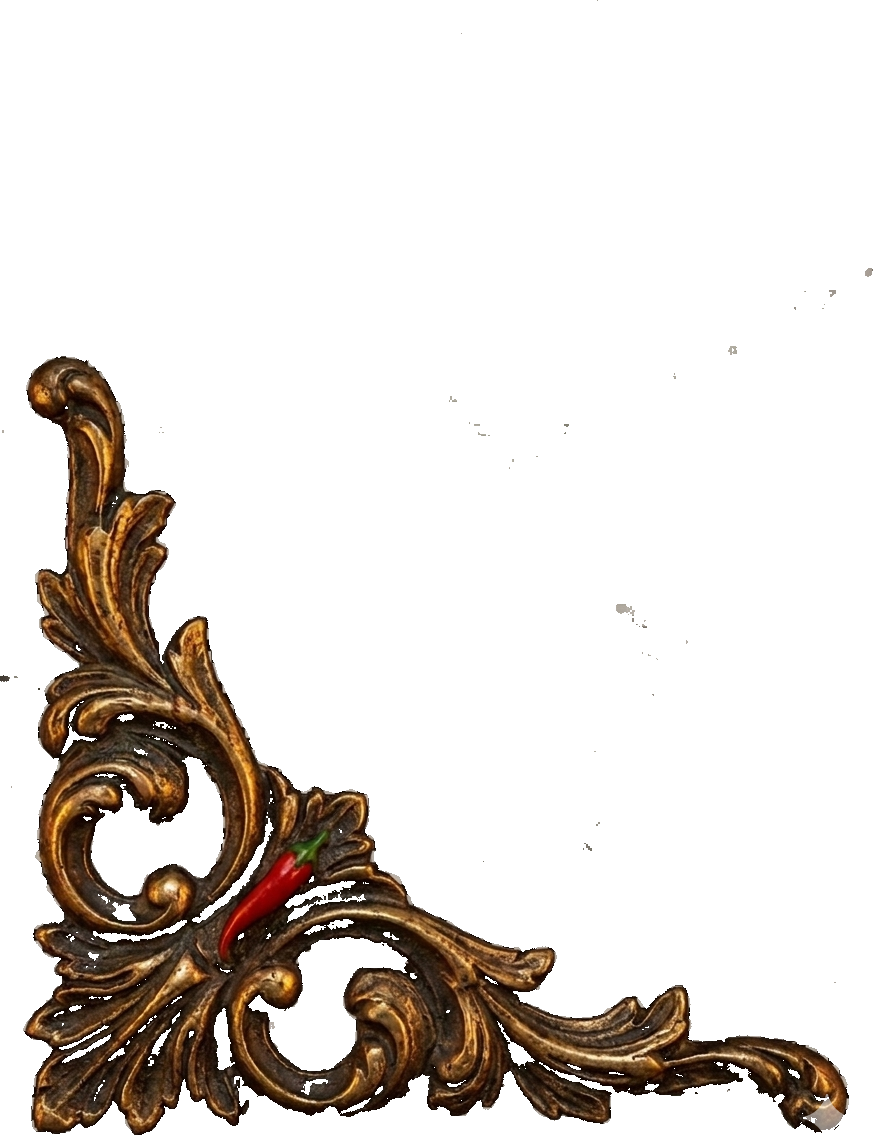
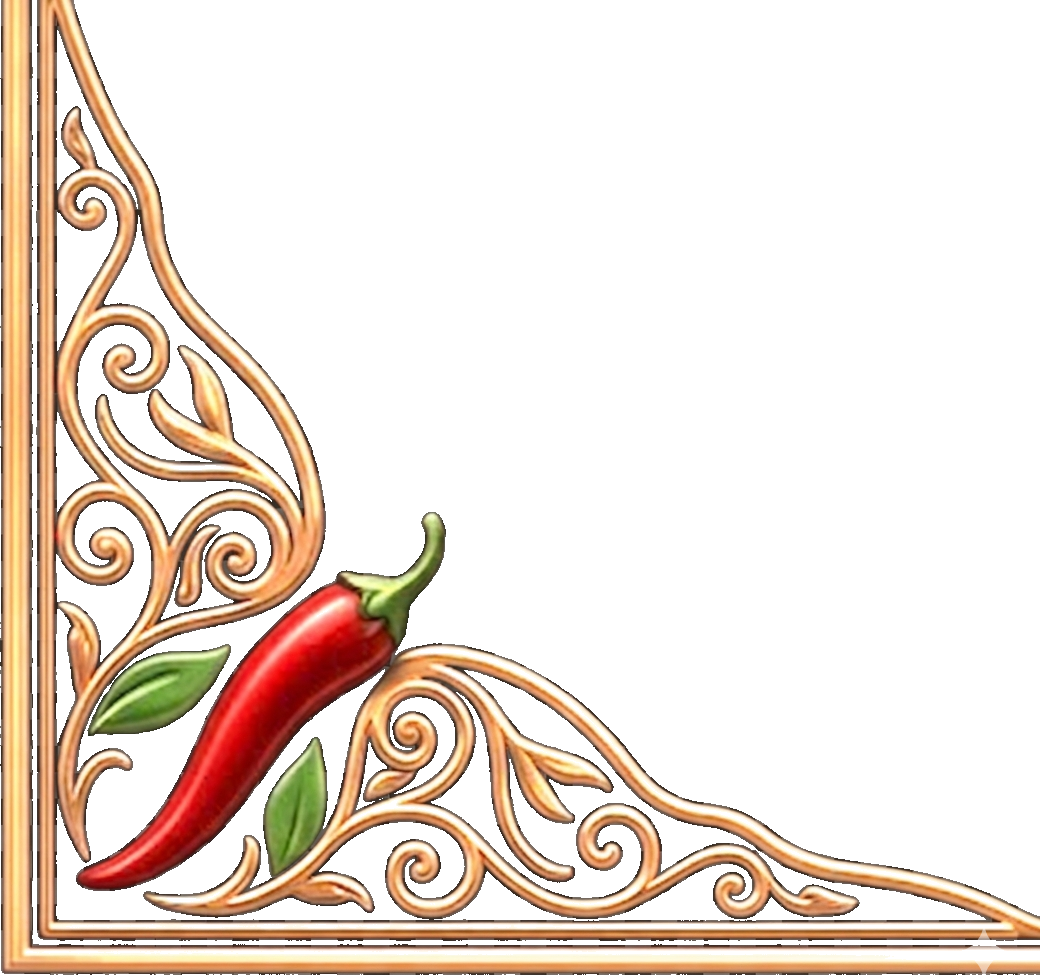
feat(ui): corner-v2 ornament on all four corners + refreshed asset
- Replace top SVG CornerBrackets with corner-v2 on MessageUsHub + catering
  banner; all four corners now use the ornate bronze ornament
- styles.css: directional .corner-art-tl/tr/bl/br (vertical flip for top
  corners so the L-piece faces inward); width 150px / md 190px
- Reprocess updated public/Files source (1060x1008, checkerboard baked
  opaque) -> stripped + cropped to 1040x975 transparent PNG
- Drop now-unused CornerBracket imports

diff --git a/src/routes/index.tsx b/src/routes/index.tsx
@@ -4,7 +4,7 @@ import { Photo } from "@/components/Photo";
 import { BaybayinWatermark } from "@/components/BaybayinWatermark";
 import { SignatureCarousel } from "@/components/SignatureCarousel";
 import { MessageUsHub } from "@/components/MessageUsHub";
-import { ChiliDivider, CornerBracket } from "@/components/Ornaments";
+import { ChiliDivider } from "@/components/Ornaments";
 import { IMAGES } from "@/data/images";
 import { MENU } from "@/data/menu";
 import { useCart, formatPrice } from "@/context/CartContext";
@@ -226,10 +226,10 @@ function Home() {
       {/* CATERING BANNER */}
       <section className="relative mx-auto max-w-7xl px-4 md:px-8">
         <div className="reveal bronze-frame wood-surface relative grid overflow-hidden rounded-3xl text-brand-cream md:grid-cols-2">
-          <CornerBracket corner="tl" className="h-14 w-14 md:h-16 md:w-16" />
-          <CornerBracket corner="tr" className="h-14 w-14 md:h-16 md:w-16" />
-          <img src={IMAGES.ornamentCornerV2} alt="" aria-hidden="true" className="corner-art corner-art-left" />
-          <img src={IMAGES.ornamentCornerV2} alt="" aria-hidden="true" className="corner-art corner-art-right" />
+          <img src={IMAGES.ornamentCornerV2} alt="" aria-hidden="true" className="corner-art corner-art-tl" />
+          <img src={IMAGES.ornamentCornerV2} alt="" aria-hidden="true" className="corner-art corner-art-tr" />
+          <img src={IMAGES.ornamentCornerV2} alt="" aria-hidden="true" className="corner-art corner-art-bl" />
+          <img src={IMAGES.ornamentCornerV2} alt="" aria-hidden="true" className="corner-art corner-art-br" />
           <Photo
             src={IMAGES.teamEvent}
             alt="Bagnetchon catering at a Filipino fiesta"

diff --git a/src/components/MessageUsHub.tsx b/src/components/MessageUsHub.tsx
@@ -1,6 +1,5 @@
 import { useState } from "react";
 import { MessageCircle, Phone, Mail, Facebook, Instagram, X } from "lucide-react";
-import { CornerBracket } from "./Ornaments";
 import { IMAGES } from "@/data/images";
 
 const channels = [
@@ -96,10 +95,10 @@ export function MessageUsHub() {
       aria-labelledby="message-us-heading"
       className="bronze-frame wood-surface relative overflow-hidden rounded-3xl px-6 py-14 text-brand-cream md:px-12 md:py-20"
     >
-      <CornerBracket corner="tl" className="h-14 w-14 md:h-16 md:w-16" />
-      <CornerBracket corner="tr" className="h-14 w-14 md:h-16 md:w-16" />
-      <img src={IMAGES.ornamentCornerV2} alt="" aria-hidden="true" className="corner-art corner-art-left" />
-      <img src={IMAGES.ornamentCornerV2} alt="" aria-hidden="true" className="corner-art corner-art-right" />
+      <img src={IMAGES.ornamentCornerV2} alt="" aria-hidden="true" className="corner-art corner-art-tl" />
+      <img src={IMAGES.ornamentCornerV2} alt="" aria-hidden="true" className="corner-art corner-art-tr" />
+      <img src={IMAGES.ornamentCornerV2} alt="" aria-hidden="true" className="corner-art corner-art-bl" />
+      <img src={IMAGES.ornamentCornerV2} alt="" aria-hidden="true" className="corner-art corner-art-br" />
       <div className="relative z-10 mx-auto max-w-3xl text-center">
         <p className="font-display text-sm uppercase tracking-[0.3em] text-accent">Message Us</p>
         <h2 id="message-us-heading" className="embossed mt-3 font-display text-4xl md:text-5xl">

diff --git a/src/styles.css b/src/styles.css
@@ -319,8 +319,7 @@
    Content wrapper must be `relative z-10`. Panel must have `overflow-hidden`. */
 .corner-art {
   position: absolute;
-  bottom: 0;
-  width: 160px;
+  width: 150px;
   height: auto;
   pointer-events: none;
   z-index: 0;
@@ -328,15 +327,28 @@
 }
 @media (min-width: 768px) {
   .corner-art {
-    width: 200px;
+    width: 190px;
   }
 }
-.corner-art-left {
+/* Asset is a bottom-left L-piece; flip to face each corner inward. */
+.corner-art-bl {
+  bottom: 0;
   left: 0;
 }
-.corner-art-right {
+.corner-art-br {
+  bottom: 0;
   right: 0;
   transform: scaleX(-1);
+}
+.corner-art-tl {
+  top: 0;
+  left: 0;
+  transform: scaleY(-1);
+}
+.corner-art-tr {
+  top: 0;
+  right: 0;
+  transform: scaleX(-1) scaleY(-1);
 }
 
 /* Photo fallback gradient */
